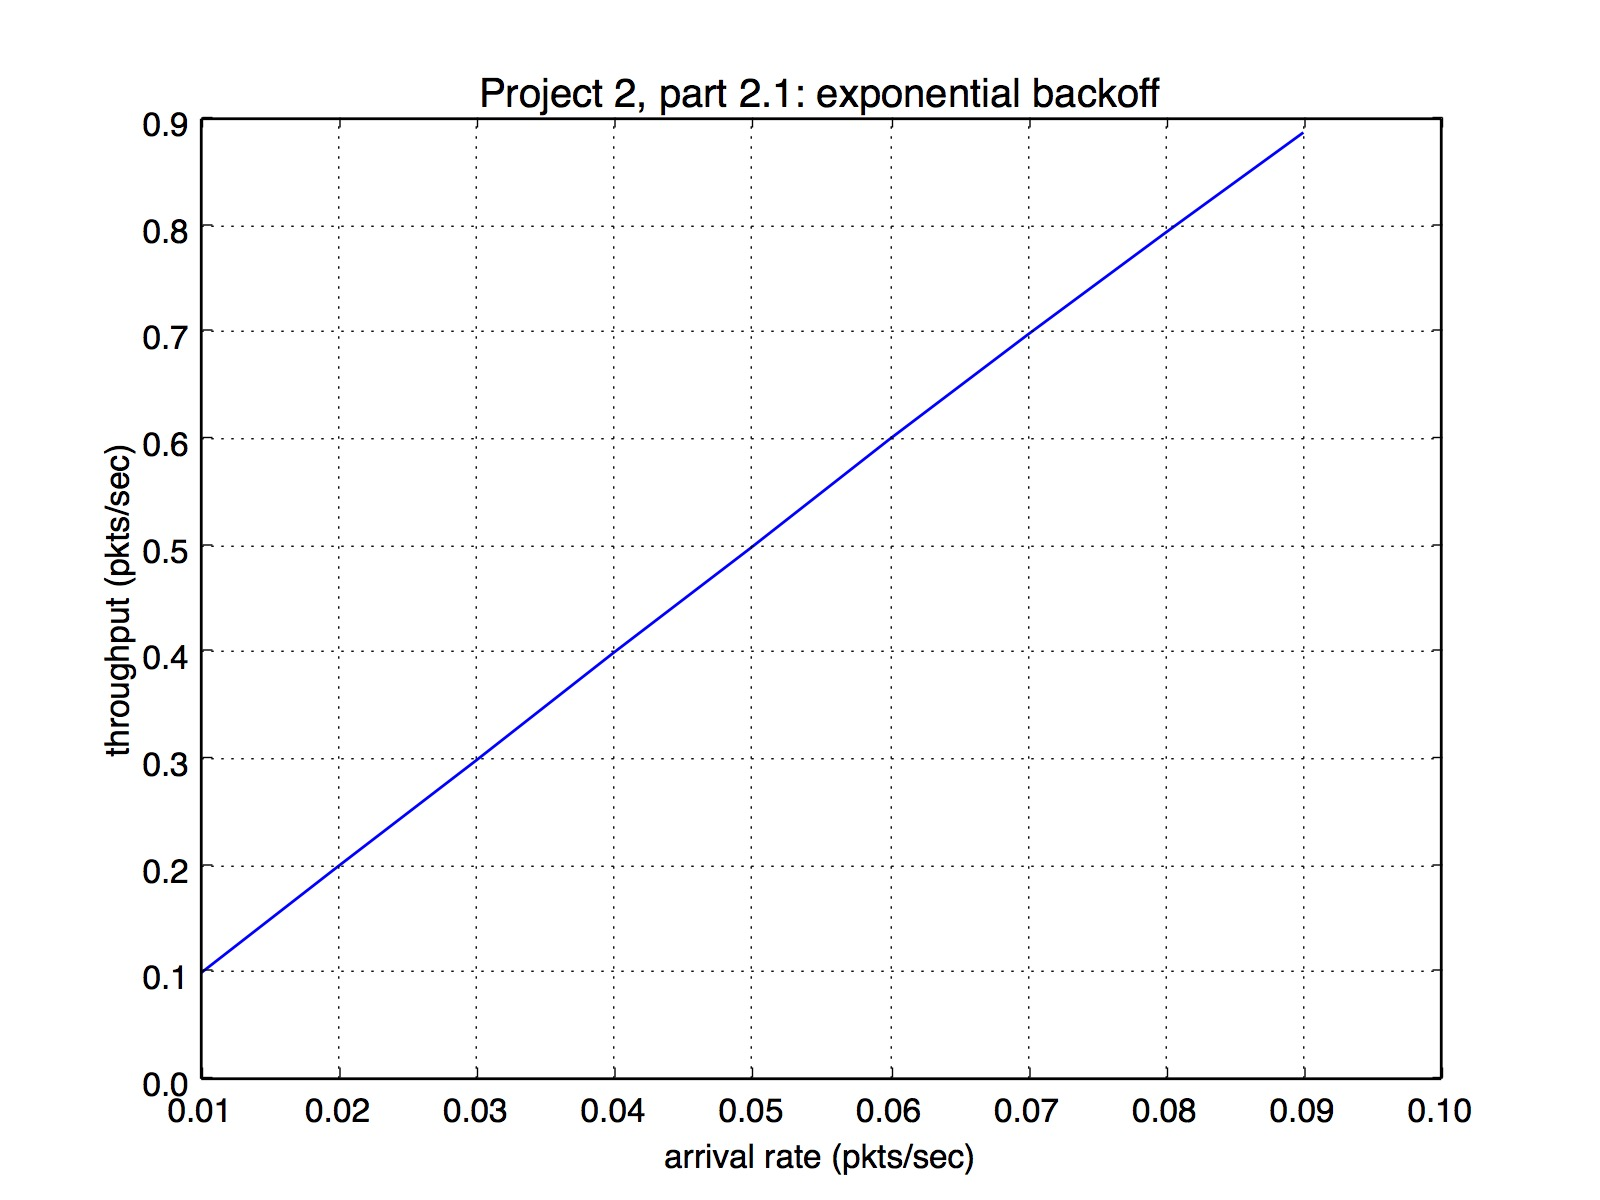
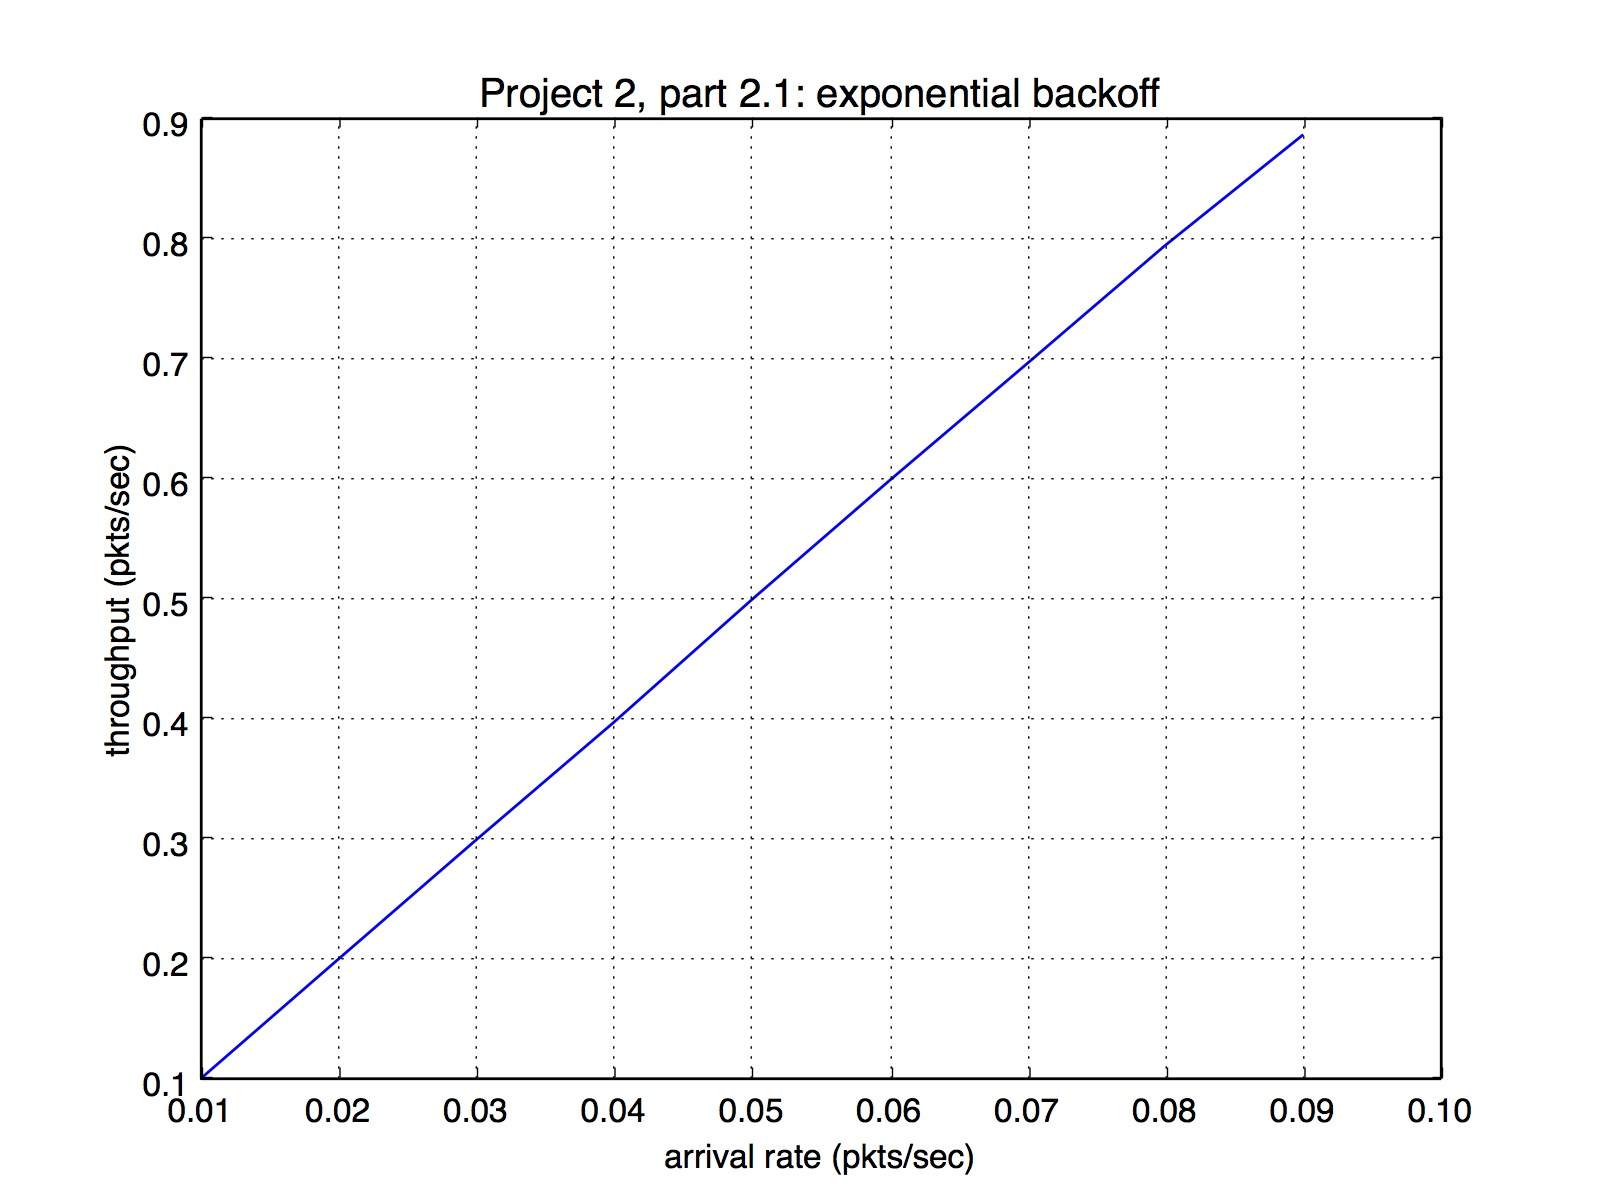
everything should work now

diff --git a/part2.py b/part2.py
@@ -5,201 +5,137 @@ import math
 from matplotlib import pyplot
 
 SLOT_LENGTH = 1
-RANDOM_SEED = 31
+RANDOM_SEED = 29
 SIM_TIME = 500000
-MU = 1
 NUM_NODES = 10
 exp_throughput = []
 linear_throughput = []
 Lambda = [0.01, 0.02, 0.03, 0.04, 0.05, 0.06, 0.07, 0.08, 0.09]
 
-class host:
-    def __init__(self, env, ethernet, arrival_rate, my_id):
-        self.ethernet = ethernet#the resource
+class node:
+    def __init__(self, env, rate, my_id):
         self.env = env
-        self.transmit_slot= 0
         self.success_packets = 0
         self.flag_processing = 0
         self.packet_number = 0
-        self.arrival_rate = arrival_rate
-        self.attempts = 0
-        self.queue_len = 0
         self.id = my_id
+        self.rate = rate
+        self.N = 0
+        self.L = 0
+        self.S = 0
 
-
-    def process_packet(self, env, ethernet):
-        #print("Call process packet on Host ", self.id)
-        #print("Process takes ", process_time)
-        self.queue_len -= 1
-        #yield env.timeout(process_time)
-        #print("After call process packet, Host ", self.id, " quelength is ", self.queue_len)
+    def process_packet(self, env):
+        self.L -= 1
         #finish processing set attmpt to 0
-        self.attempts = 0
+        self.N = 0
         self.success_packets += 1
-        self.transmit_slot += 1
+        self.S += 1
   
     def packets_arrival(self, env):
         # packet arrivals
-        #print('Initiating packet arrival.')
         while True:
-             # Infinite loop for generating packets
-            yield env.timeout(random.expovariate(self.arrival_rate))
-            #print("Host ", self.id, "has incomming packet. <---------------------------------------")
-              # arrival time of one packet
-
+            # Infinite loop for generating packets
+            yield env.timeout(random.expovariate(self.rate))
+    
+            # arrival time of one packet
             self.packet_number += 1
-            self.queue_len += 1
-            #print("Host ", self.id, " queue is now ", self.queue_len)
+            self.L += 1
+            
 
-    #if collision this reset host's next transmit slot
-    def delay_transmission_exp(self):
-        self.transmit_slot = self.transmit_slot + random.randint(0, 2**min(self.attempts, 10))
-        self.attempts += 1
-        #print("Host ", self.id, " delayed packet to slot ", self.transmit_slot, " with attempts ", self.attempts)
-    def delay_transmission_lin(self):
-        self.transmit_slot = self.transmit_slot + random.randint(0, min(self.attempts, 1024)) + 1
-        self.attempts += 1
-        #print("Host ",self.id," is delayed to ", self.transmit_slot, "with attempts", self.attempts)
+    def exponential_backoff(self):
+        self.S = self.S + random.randint(0, 2**min(self.N, 10))
+        self.N += 1
+        
+    def linear_backoff(self):
+        self.S = self.S + random.randint(0, min(self.N, 1024)) + 1
+        self.N += 1
+        
 class ethernet:
-    def __init__(self, env, arrival_rate):
+    def __init__(self, env, rate, algorithm):
         self.env = env
-        self.server = simpy.Resource(env, capacity=1)
         self.slot_number = 0
         self.success_slots = 0
         self.collision_slots = 0
         self.empty_slots = 0
-        self.hosts = []
-        self.arrival_rate = arrival_rate
-        for x in range(NUM_NODES):
-            self.hosts.append(host(env, ethernet, arrival_rate, x))
+        self.list_nodes = [node(env, rate, x) for x in range(NUM_NODES)]
+        self.rate = rate
+        self.algorithm = algorithm 
 
-    def ethernet_control_exponential_delay(self):#only one line difference
+    def start(self):
     #enable packet arrival at simultaneous time
         for x in range(NUM_NODES):
-            self.env.process(self.hosts[x].packets_arrival(self.env))
+            self.env.process(self.list_nodes[x].packets_arrival(self.env))
 
         while True:
-            #wait for slot time
             yield self.env.timeout(SLOT_LENGTH)
-            #print("=====================")
-            #print("Time ", self.env.now)
-            #print("Slot number", self.slot_number)
-            request = 0 #how many request at current slot?
-            host_index = -1 #index of the first request
+
+            request = 0                 # counter used to keep track of requests at current slot
+            node_index = -1             #   index of the first request
             for x in range(NUM_NODES):
-                if(self.hosts[x].queue_len == 0):
-                    continue#don't even care if hosts have no queue, packets
+                if(self.list_nodes[x].L == 0):
+                    continue            # if list_nodes have no packets in their queue, ignore
                 
-                #hosts queue have packets,
+                # list_nodes queue have packets,
                 # update their slot if they are behind current slot
-                if((self.hosts[x].transmit_slot <= self.slot_number)):
+                if((self.list_nodes[x].S <= self.slot_number)):
                     request += 1
-                    self.hosts[x].transmit_slot = self.slot_number
-                    host_index = x
+                    self.list_nodes[x].S = self.slot_number
+                    node_index = x
 
-                #print("Host ", x, " can possibly transmit at slot ", self.hosts[x].transmit_slot, "Queue is ", self.hosts[x].queue_len)
-                #count only hosts that have stuff to transmit
-            #print("total host request at current slot: ", request)
-
-            #allow the host to process
+            # If only one node wants to transmit 
             if request == 1:
                 self.success_slots += 1
-                #print(">>Can TRANSMIT<< since request = 1")
-                self.hosts[host_index].process_packet(self.env, self.server)
+                
+                self.list_nodes[node_index].process_packet(self.env)
             
-            #more than 1 request? then go through and delay each hosts that requested
+            # If more than 1 request, go through and delay each list_nodes that requested
             elif request > 1:
                 self.collision_slots += 1
                 for x in range(NUM_NODES):
-                    if(self.hosts[x].transmit_slot == self.slot_number) and (self.hosts[x].queue_len > 0):
-                        self.hosts[x].delay_transmission_exp()
-            elif request == 0:
-                self.empty_slots += 1          
-
-            self.slot_number += 1
-
-    def ethernet_control_linear_delay(self):#only 1 line difference
-    #enable packet arrival at simultaneous time
-        for x in range(NUM_NODES):
-            self.env.process(self.hosts[x].packets_arrival(self.env))
-
-        while True:
-            #wait for slot time
-            yield self.env.timeout(SLOT_LENGTH)
-            #print("=====================")
-            #print("Time ", self.env.now)
-            #print("Slot number", self.slot_number)
-            request = 0 #how many request at current slot?
-            host_index = -1 #index of the first request
-            for x in range(NUM_NODES):
-                if(self.hosts[x].queue_len == 0):
-                    continue#don't even care if hosts have no queue, packets
-                
-                #hosts queue have packets,
-                # update their slot if they are behind current slot
-                if((self.hosts[x].transmit_slot <= self.slot_number)):
-                    request += 1
-                    self.hosts[x].transmit_slot = self.slot_number
-                    host_index = x
-
-                #print("Host ", x, " can possibly transmit at slot ", self.hosts[x].transmit_slot, "Queue is ", self.hosts[x].queue_len)
-                #count only hosts that have stuff to transmit
-            #print("total host request at current slot: ", request)
-
-            #allow the host to process
-            if request == 1:
-                self.success_slots += 1
-                #print(">>Can TRANSMIT<< since request = 1")
-                self.hosts[host_index].process_packet(self.env, self.server)
-            
-            #more than 1 request? then go through and delay each hosts that requested
-            elif request > 1:
-                self.collision_slots += 1
-                for x in range(NUM_NODES):
-                    if(self.hosts[x].transmit_slot == self.slot_number) and (self.hosts[x].queue_len > 0):
-                        self.hosts[x].delay_transmission_lin()
-
+                    if(self.list_nodes[x].S == self.slot_number) and (self.list_nodes[x].L > 0):
+                        if self.algorithm == 'exponential':
+                            self.list_nodes[x].exponential_backoff()
+                        if self.algorithm == 'linear':
+                            self.list_nodes[x].linear_backoff()
             elif request == 0:
                 self.empty_slots += 1          
 
             self.slot_number += 1
 
     def get_expthroughput(self):
-        print("lambda: ", self.arrival_rate, " throughput: ", self.success_slots/self.slot_number)
+        print("lambda: ", self.rate, " throughput: ", self.success_slots/self.slot_number)
         print("<success:", self.success_slots, " > <collision: ", self.collision_slots, " > <empty: ", self.empty_slots,
                 "> <total", self.slot_number, " >") 
         exp_throughput.append(self.success_slots/self.slot_number)
 
     def get_linearthroughput(self):
-        print("lambda: ", self.arrival_rate, " throughput: ", self.success_slots/self.slot_number)
+        print("lambda: ", self.rate, " throughput: ", self.success_slots/self.slot_number)
         print("<success:", self.success_slots, " > <collision: ", self.collision_slots, " > <empty: ", self.empty_slots,
                 "> <total", self.slot_number, " >") 
         linear_throughput.append(self.success_slots/self.slot_number)
                 
 
 def main():
-    throughput = [0]*9
    
-    print("Running Exponential backoff at simulation time ", SIM_TIME)
-    print("Please wait patiently, numbers are being calculated")
-    for arrival_rate in [0.01, 0.02, 0.03, 0.04, 0.05, 0.06, 0.07, 0.08, 0.09]:
+    print("Exponential backoff")
+    for rate in [0.01, 0.02, 0.03, 0.04, 0.05, 0.06, 0.07, 0.08, 0.09]:
         env = simpy.Environment()
-        myethernet = ethernet(env, arrival_rate)
-        env.process(myethernet.ethernet_control_exponential_delay())
+        myethernet = ethernet(env, rate, 'exponential')
+        env.process(myethernet.start())
         env.run(until=SIM_TIME)
         myethernet.get_expthroughput()
-    
-    print("====")
-    print("====")
-    print("Running Linear backoff at simulation time ", SIM_TIME)
-    print("Please wait patiently, numbers are being calculated")
+    print("graph will be saved as exponential_backoff.jpeg")
+    print('\n')
 
-    for arrival_rate in [0.01, 0.02, 0.03, 0.04, 0.05, 0.06, 0.07, 0.08, 0.09]:
+    print("Linear backoff")
+    for rate in [0.01, 0.02, 0.03, 0.04, 0.05, 0.06, 0.07, 0.08, 0.09]:
         env = simpy.Environment()
-        myethernet = ethernet(env, arrival_rate)
-        env.process(myethernet.ethernet_control_linear_delay())
+        myethernet = ethernet(env, rate, 'linear')
+        env.process(myethernet.start())
         env.run(until=SIM_TIME)
         myethernet.get_linearthroughput()
+
+    print("graph will be saved as linear_backoff.jpeg")
 
 
     pyplot.plot(Lambda, exp_throughput)
@@ -207,7 +143,7 @@ def main():
     pyplot.ylabel('throughput (pkts/sec)')
     pyplot.title('Project 2, part 2.1: exponential backoff')
     pyplot.grid(True)
-    pyplot.savefig("Proj2exp.jpeg")
+    pyplot.savefig("exponential_backoff.jpeg")
 
     pyplot.clf() # clear the image
 
@@ -216,6 +152,6 @@ def main():
     pyplot.ylabel('throughput (pkts/sec)')
     pyplot.title('Project 2, part 2.2: linear backoff')
     pyplot.grid(True)
-    pyplot.savefig("Proj2linear.jpeg")
+    pyplot.savefig("linear_backoff.jpeg")
 
 if __name__ == '__main__': main()
